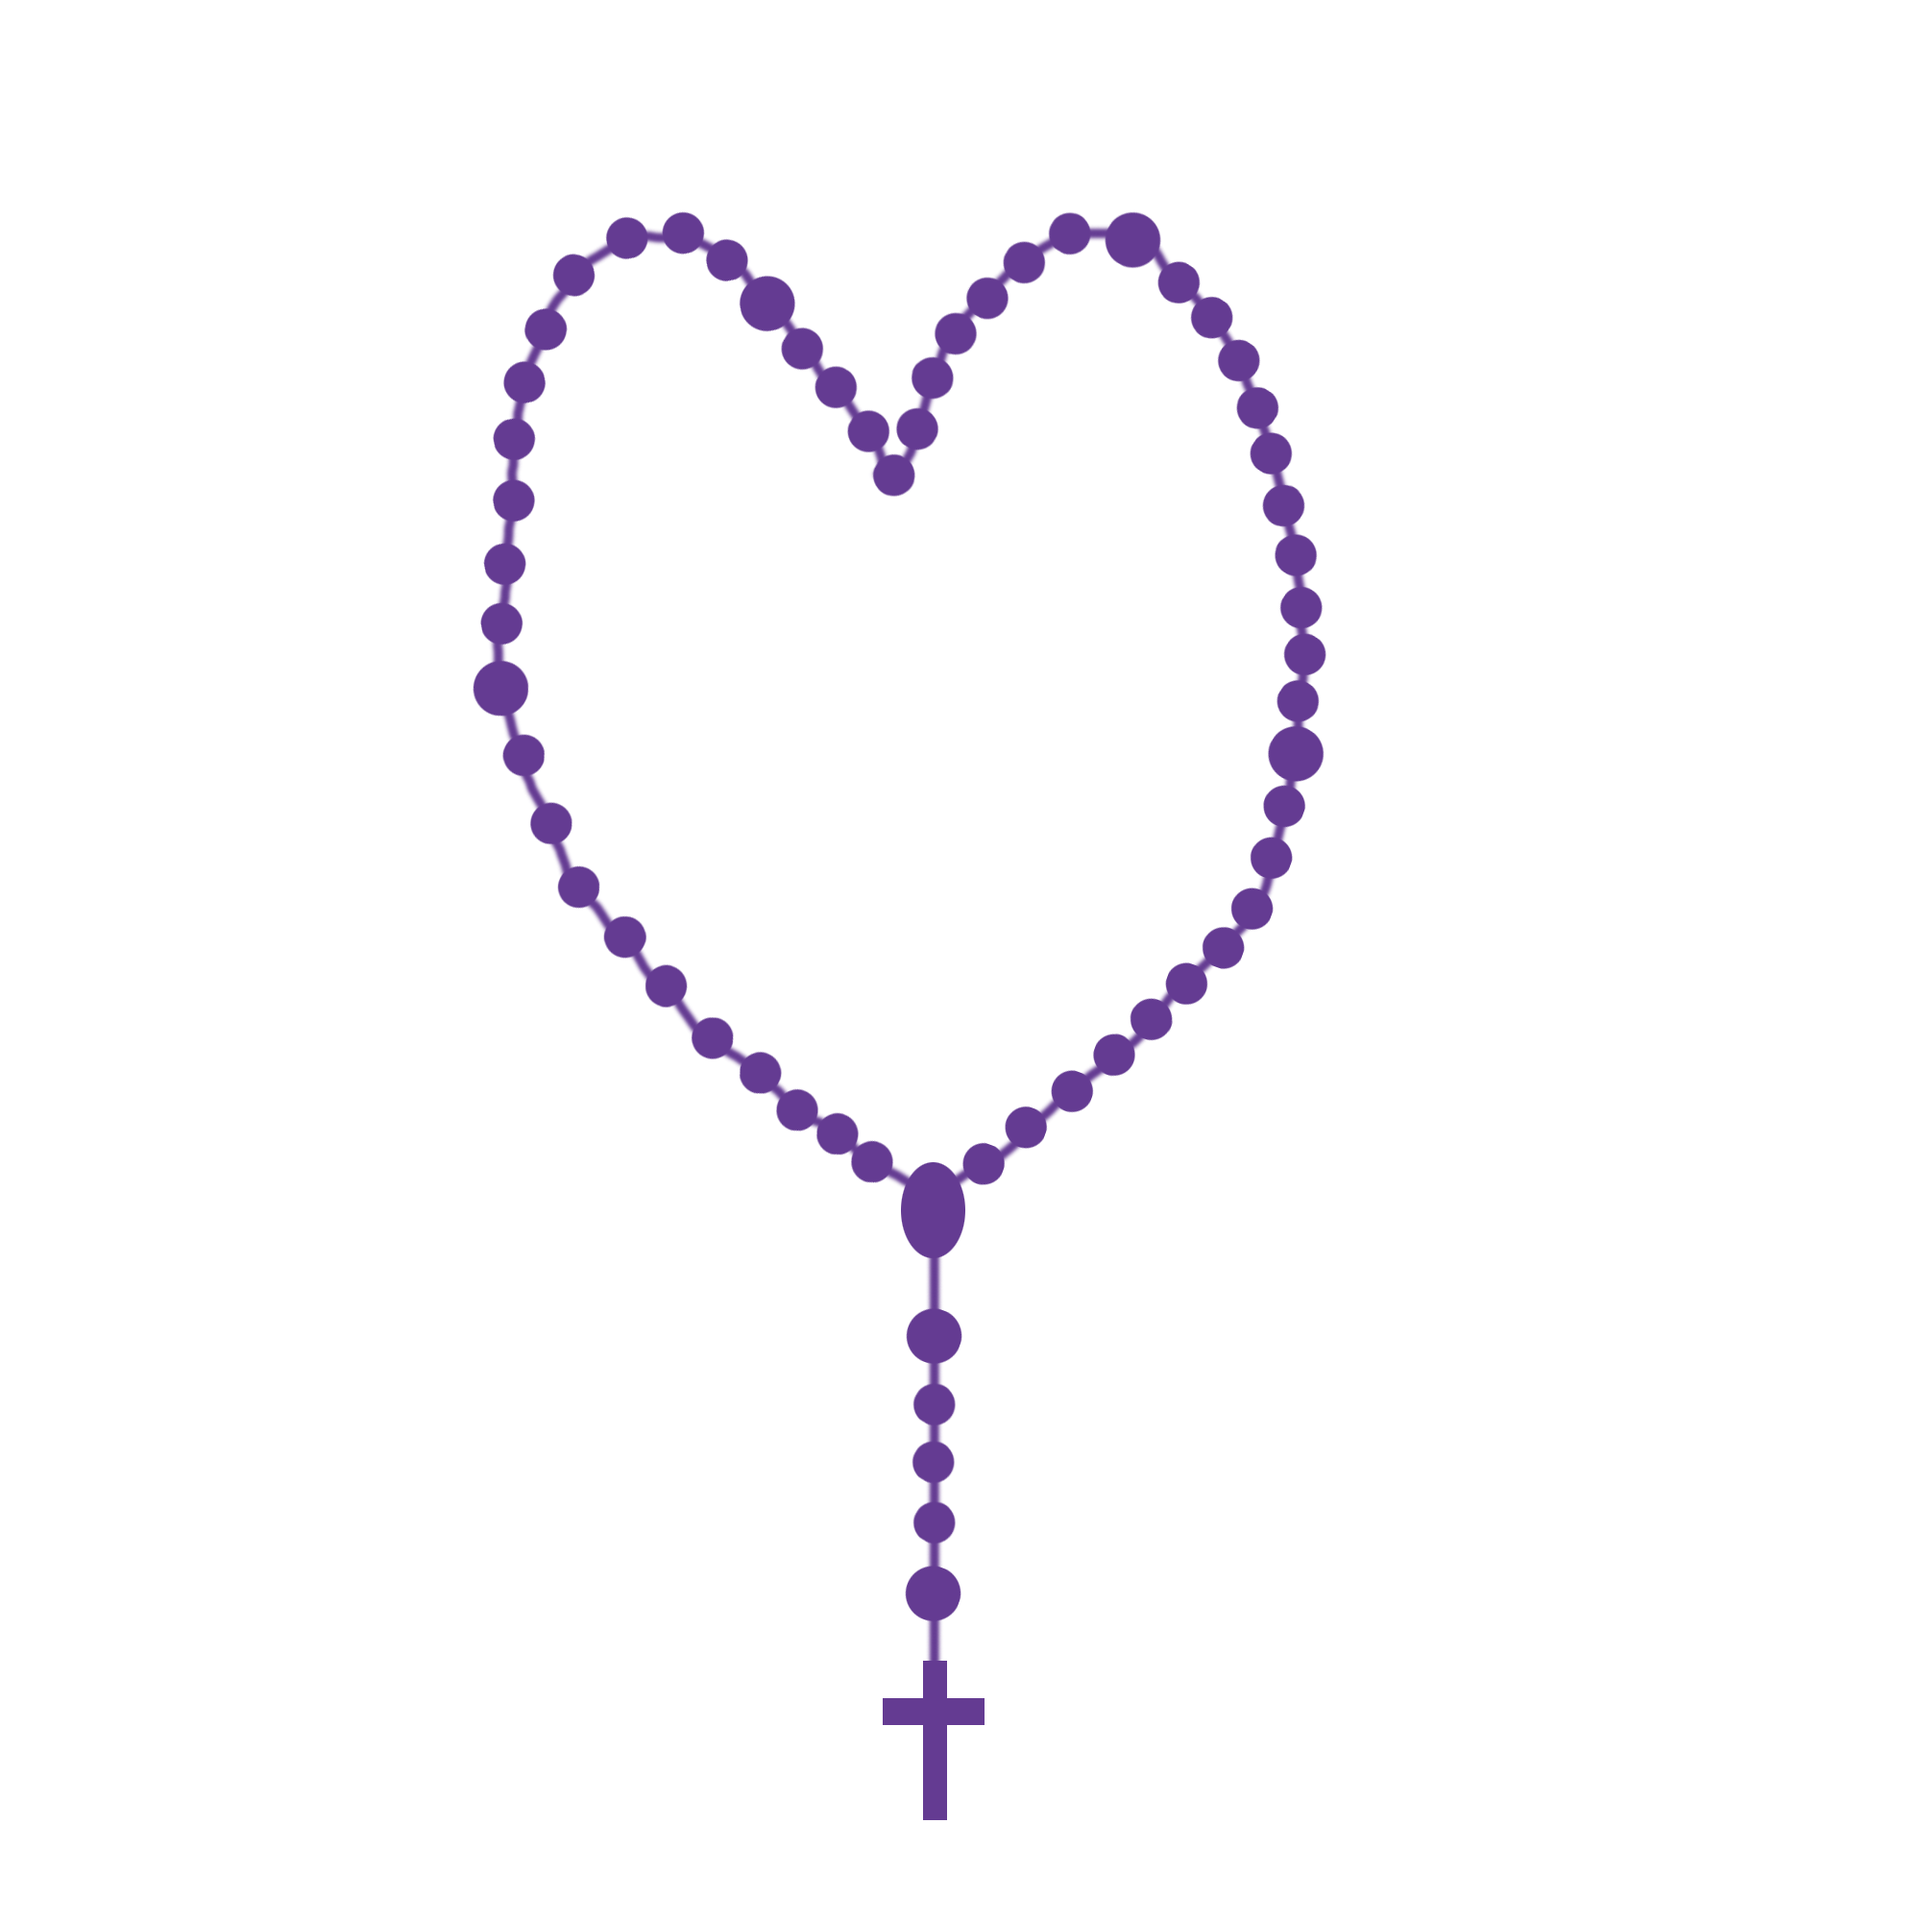
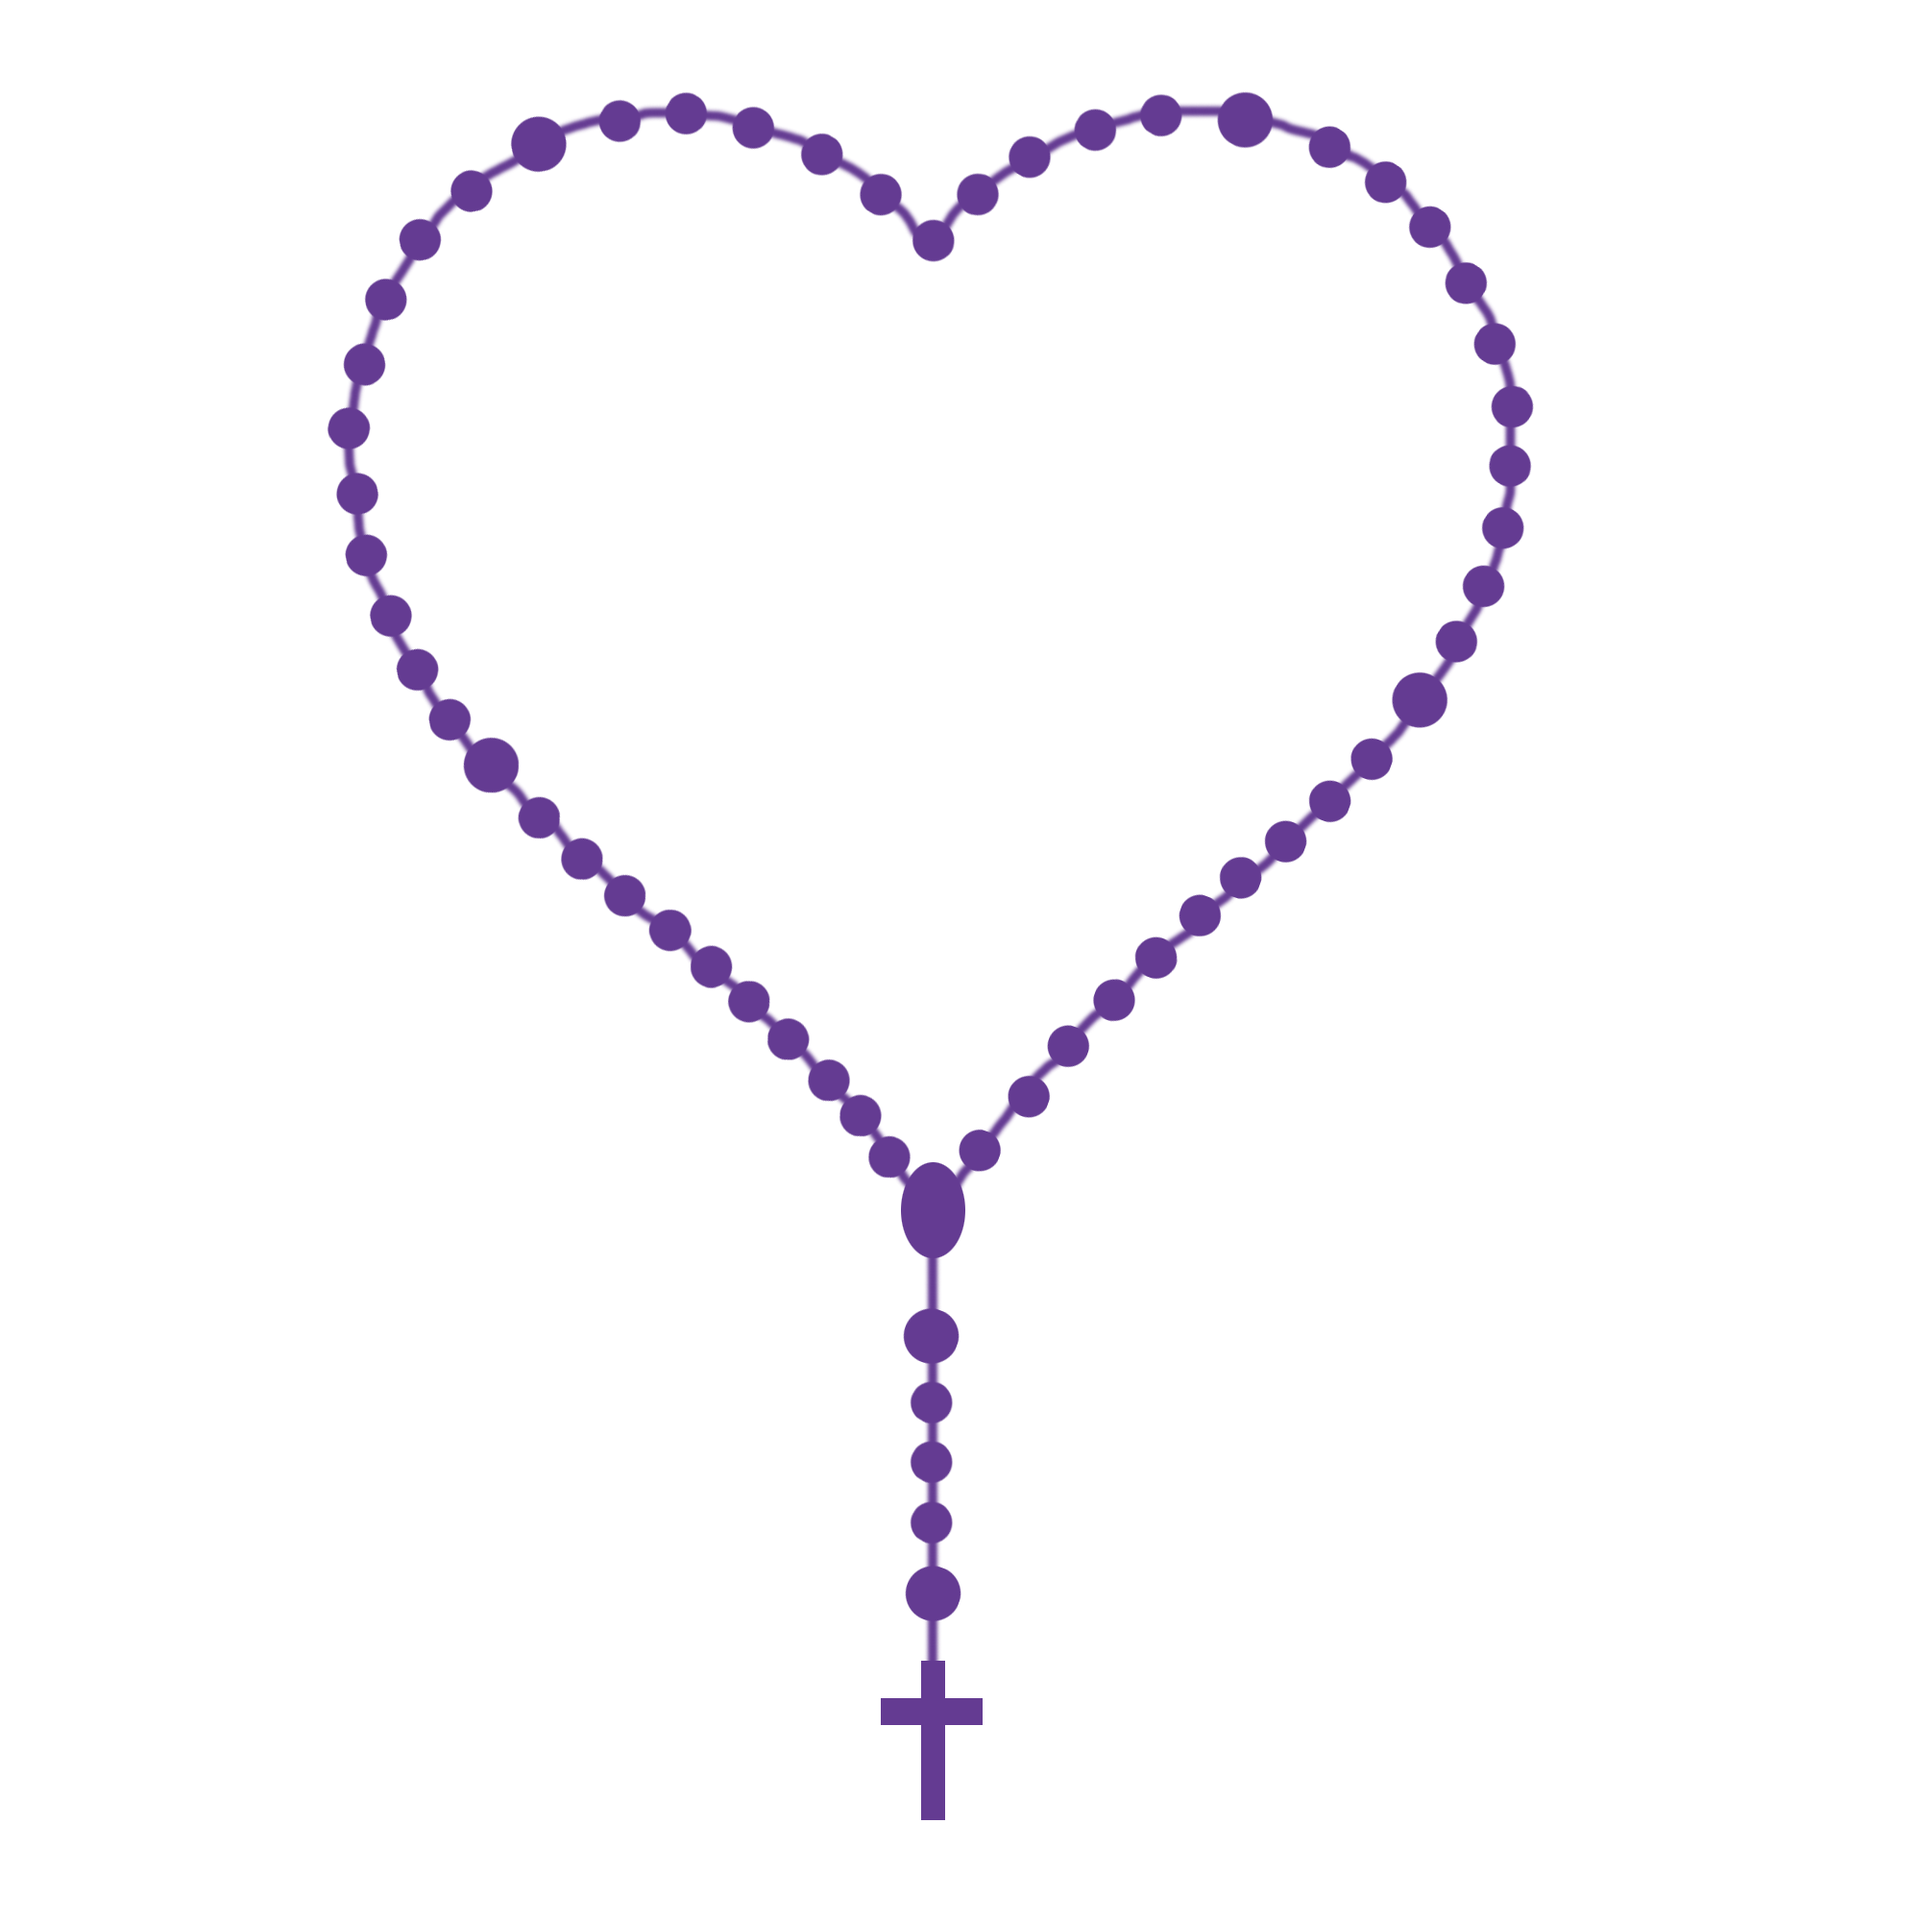
Add files via upload
Alterado o logo do Terço do Amor.
Quando estamos na página do terço mariano o Sobre não funcionava, foi corrigido.

Changed region(s): [[0.155, 0.031, 0.806, 0.62], [0.465, 0.651, 0.496, 0.806], [0.465, 0.837, 0.496, 0.868]]

diff --git a/SantoTerco/pages/tercos/mariano/mariano.html b/SantoTerco/pages/tercos/mariano/mariano.html
@@ -14,7 +14,7 @@
     <header class="horizontal">
         <h1 id="texto-ca" class="cor-texto">Terço</h1>
         <ul id="ul-header">
-            <li class="cor-texto"><a class="cor-texto" href="../../pages/sobre/sobre.html">Sobre</a></li>
+            <li class="cor-texto"><a class="cor-texto" href="../../../pages/sobre/sobre.html">Sobre</a></li>
             <li class="cor-texto">Mais</li>
             <li class="cor-texto">Ajudar</li>
         </ul>

diff --git a/SantoTerco/pages/home/home.js b/SantoTerco/pages/home/home.js
@@ -16,7 +16,7 @@ if (/Android|webOS|iPhone|iPad|iPod|BlackBerry|IEMobile|Opera Mini/i.test(naviga
     tercoMariano.addEventListener('mouseenter', function() {
       setTimeout(function() {
         tercoMariano.classList.add('hide-content');
-      }, 50); // Atraso de 50ms
+      }, 50); // OBS PROF: Atraso de 50ms para versão mobile
     });
 
     tercoMariano.addEventListener('mouseleave', function() {
